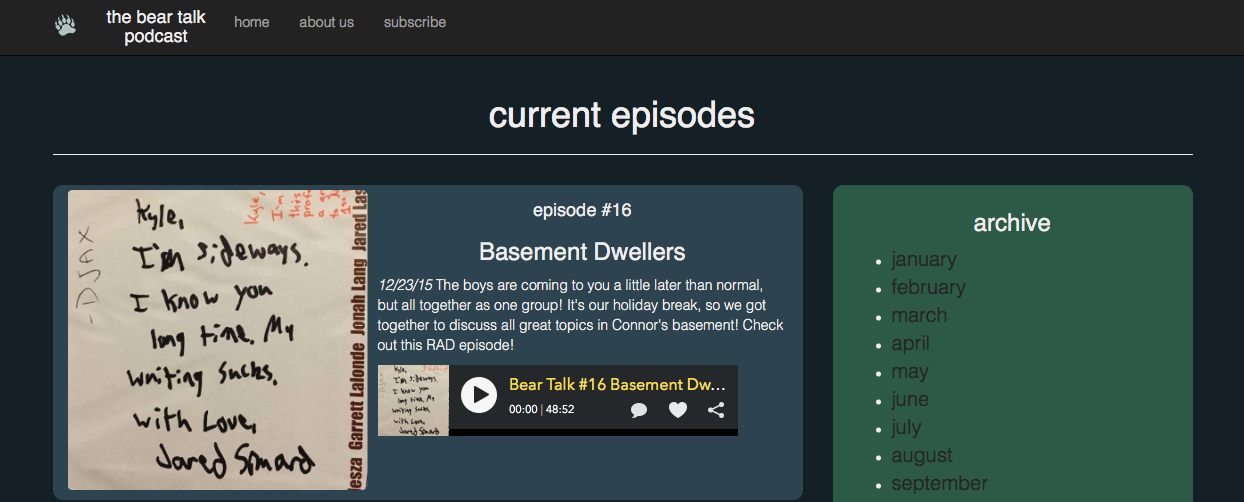
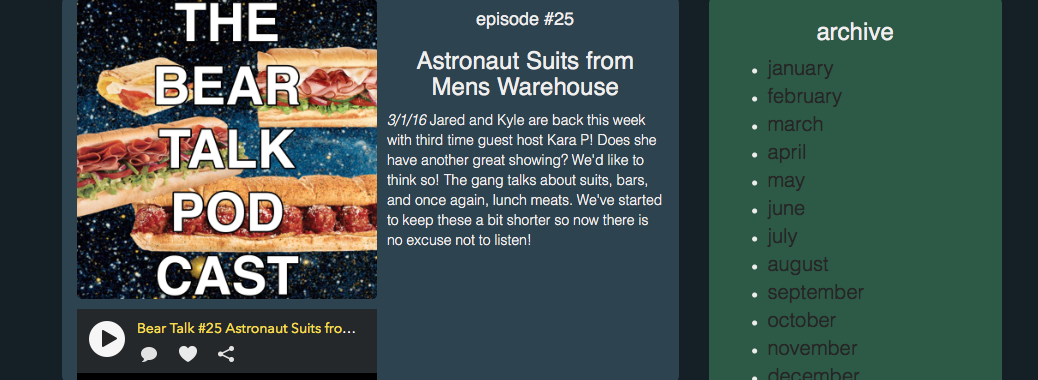
Fixes and new FB preview. Probably will start doing this every week because why not

diff --git a/index.html b/index.html
@@ -74,7 +74,7 @@
                  <img src="imgs/sammy.jpg" alt="bear talk cover artwork" class="pull-left gap-right">
                  <h4>episode #25</h4>
                  <h3>Astronaut Suits from Mens Warehouse</h3>
-                 <p><i>3/1/16 </i>Jared and Kyle are back this week with guest host Kara P once again! Does she have another great showing? We like to think so! The gang talks about suits, bars, and once again, lunch meats. We've started to keep these a bit shorter so now theres no excuse not to listen!</p>
+                 <p><i>3/1/16 </i>Jared and Kyle are back this week with third time guest host Kara P! Does she have another great showing? We'd like to think so! The gang talks about suits, bars, and once again, lunch meats. We've started to keep these a bit shorter so now there is no excuse not to listen!</p>
                  <iframe src="https://www.spreaker.com/embed/player/mini?episode_id=7901831&autoplay=false" style="width: 300px; height: 71px;" frameborder="0" scrolling="no"></iframe>
                </div>
 

diff --git a/march.html b/march.html
@@ -70,7 +70,7 @@
                  <img src="imgs/sammy.jpg" alt="bear talk cover artwork" class="pull-left gap-right">
                  <h4>episode #25</h4>
                  <h3>Astronaut Suits from Mens Warehouse</h3>
-                 <p><i>3/1/16 </i>Jared and Kyle are back this week with guest host Kara P once again! Does she have another great showing? We like to think so! The gang talks about suits, bars, and once again, lunch meats. We've started to keep these a bit shorter so now theres no excuse not to listen!</p>
+                 <p><i>3/1/16 </i>Jared and Kyle are back this week with third time guest host Kara P! Does she have another great showing? We'd like to think so! The gang talks about suits, bars, and once again, lunch meats. We've started to keep these a bit shorter so now there is no excuse not to listen!</p>
                  <iframe src="https://www.spreaker.com/embed/player/mini?episode_id=7901831&autoplay=false" style="width: 300px; height: 71px;" frameborder="0" scrolling="no"></iframe>
                </div>
 
